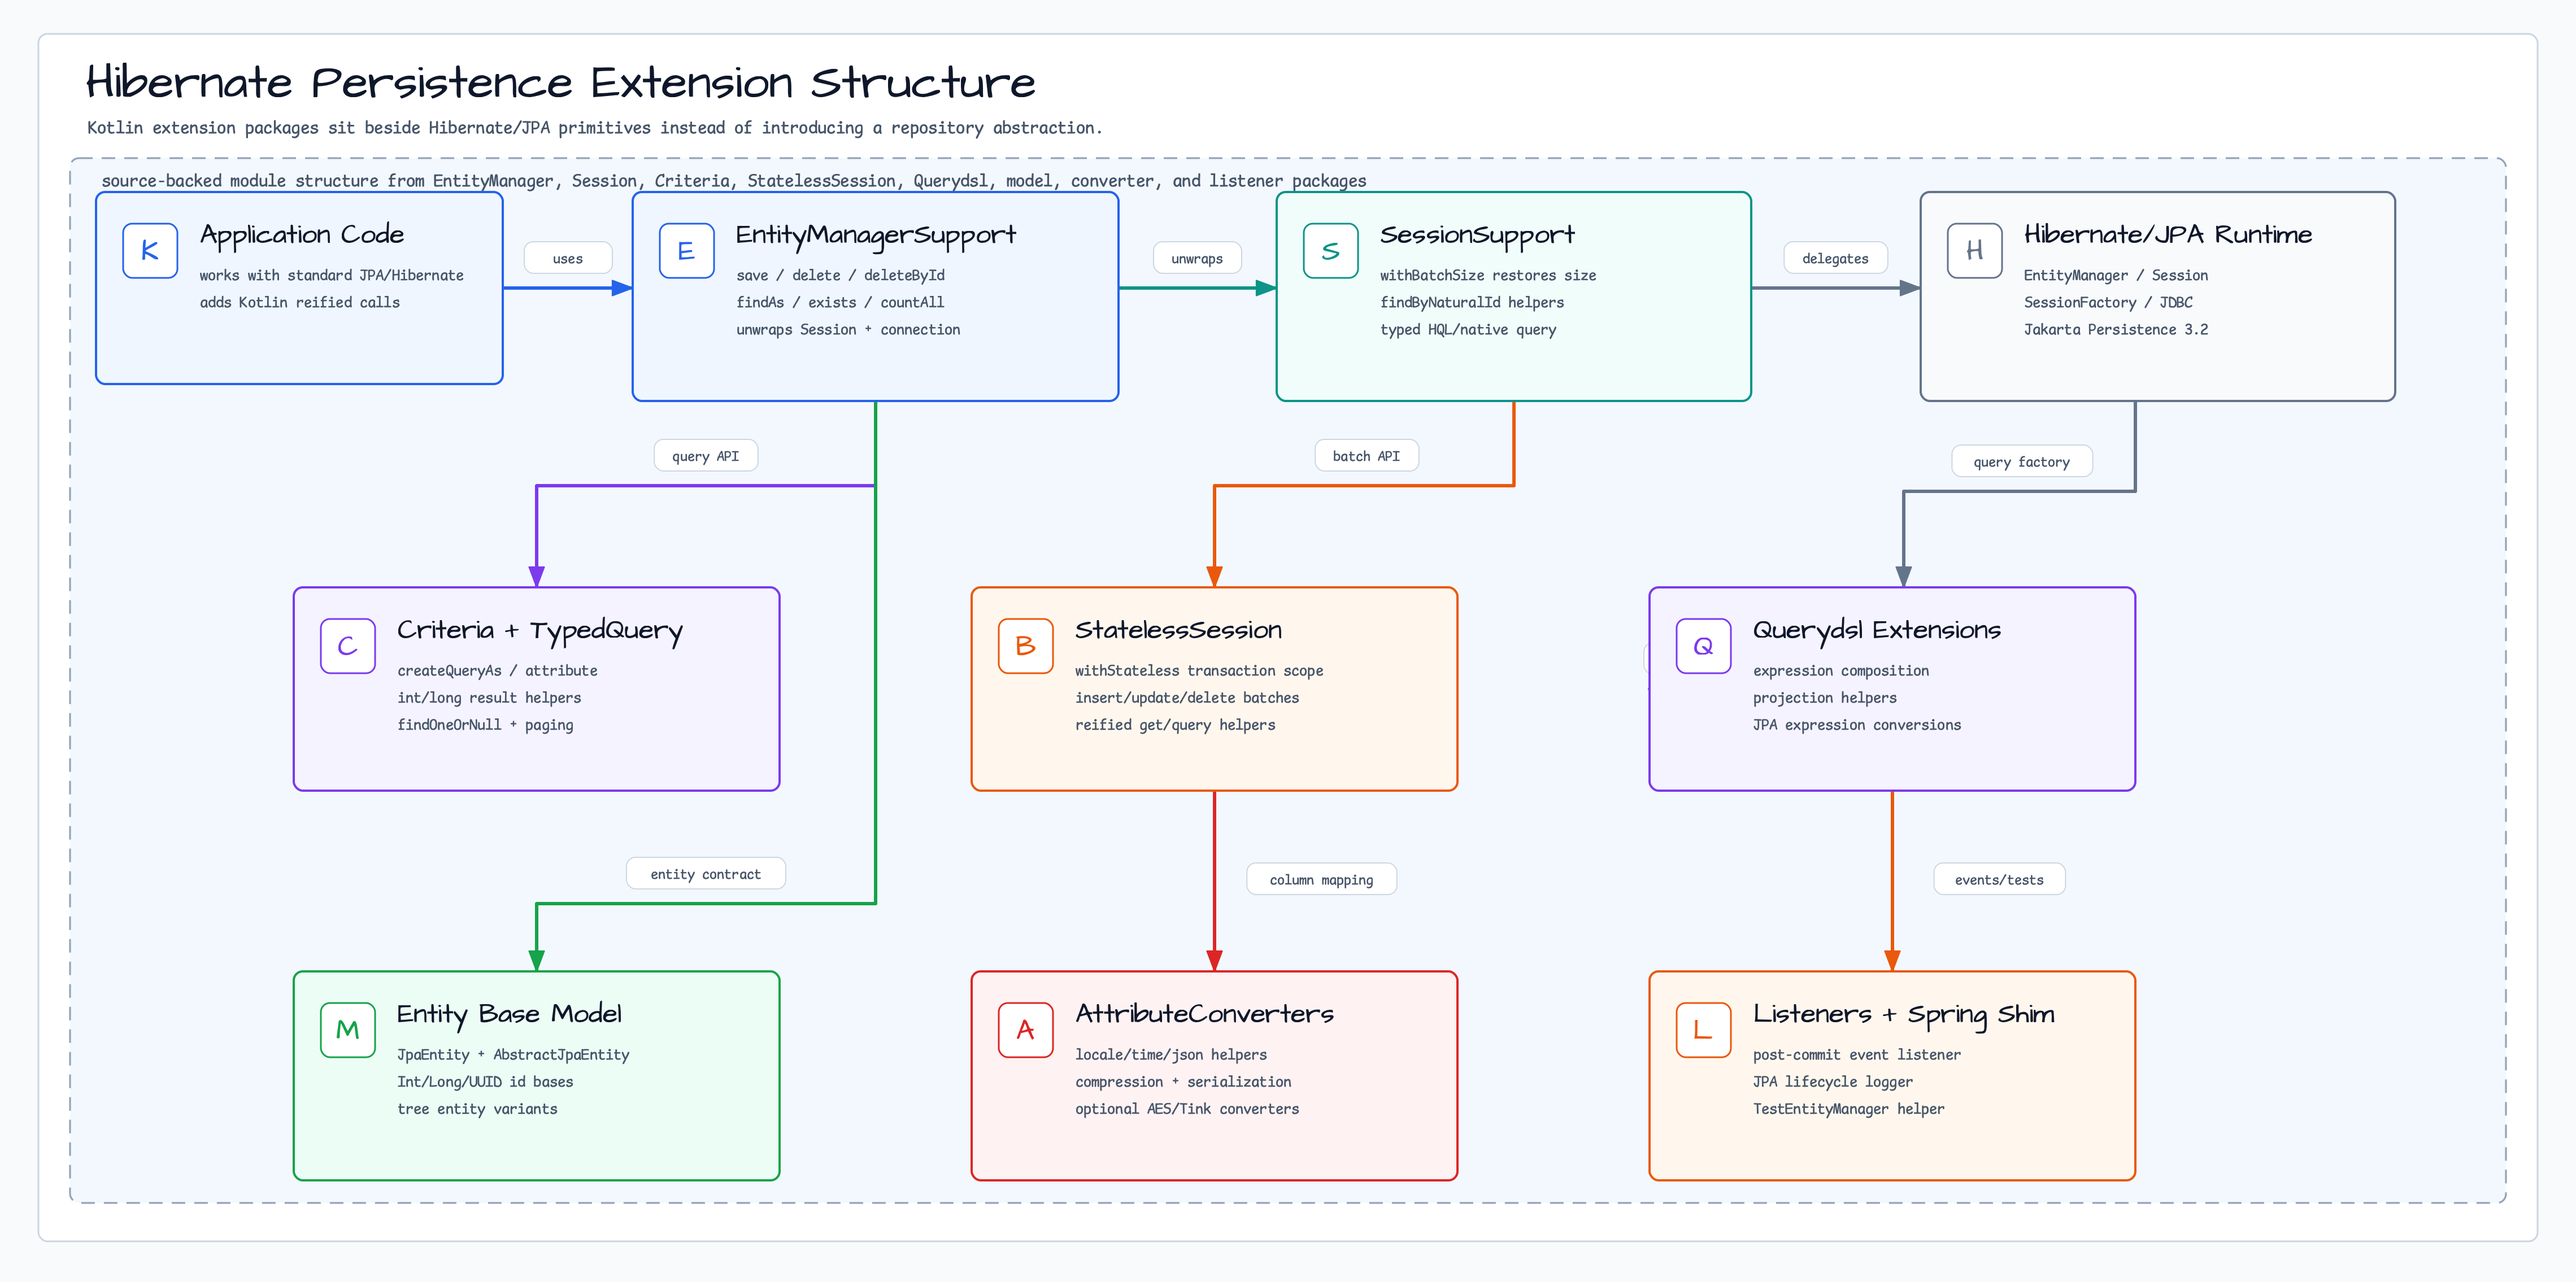
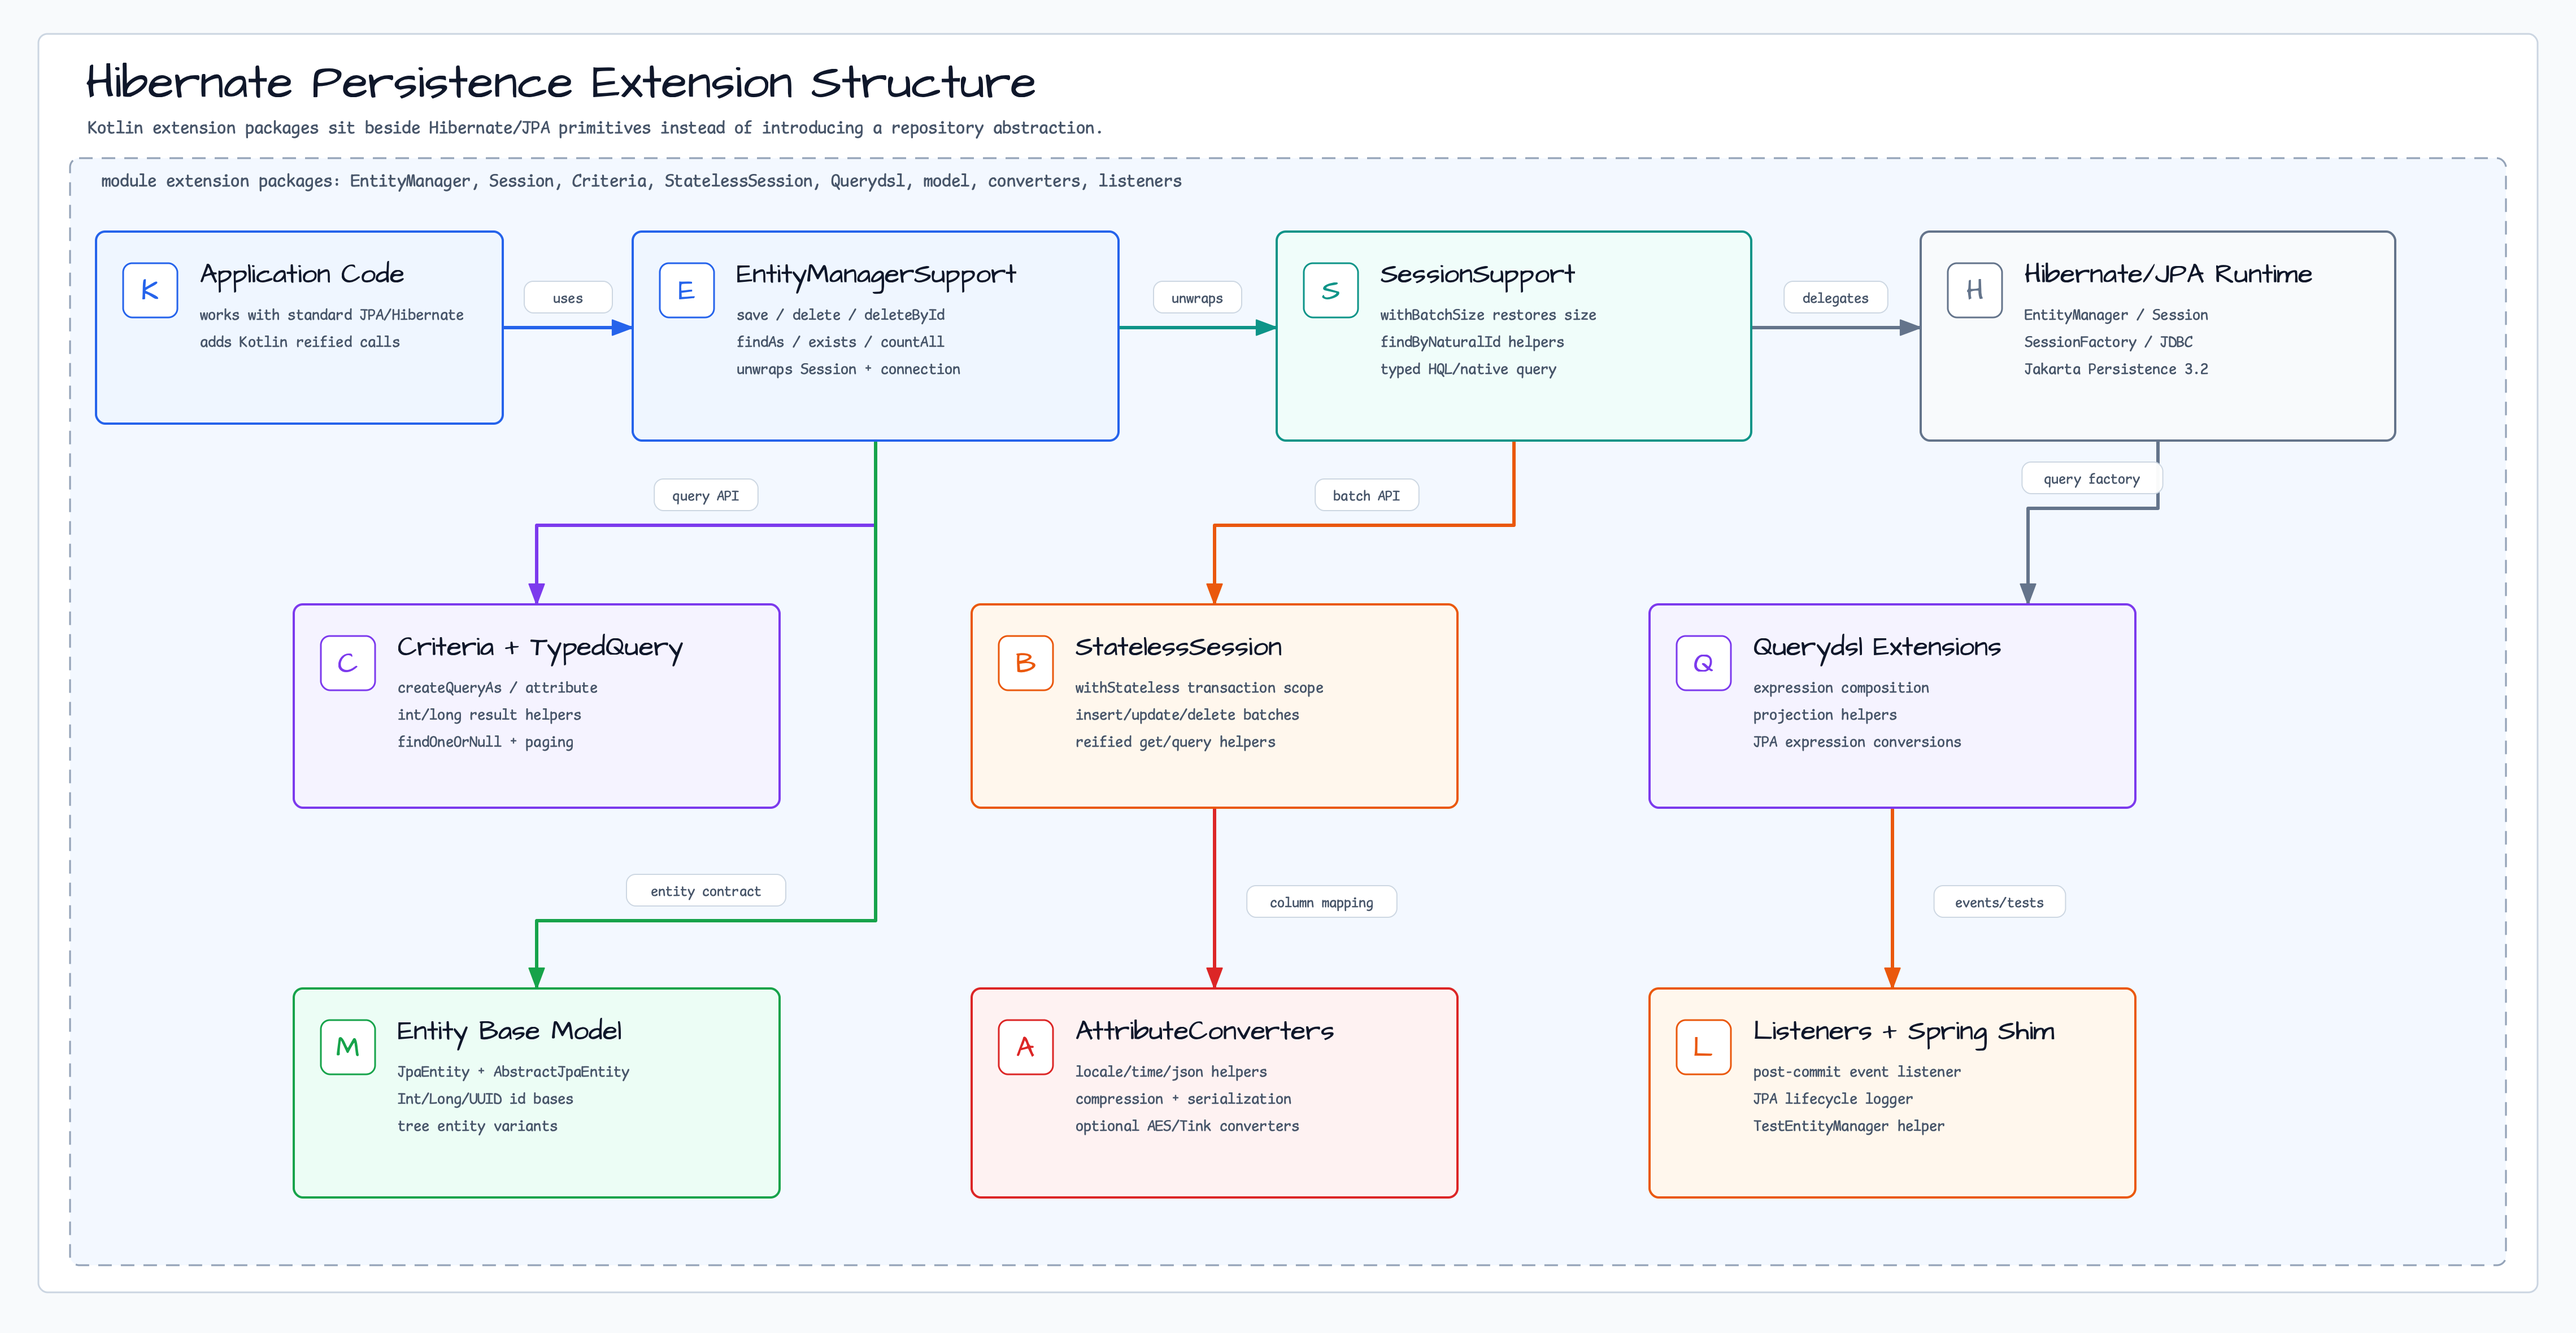
docs: clarify data hibernate diagrams
Constraint: README diagrams must use bluetape4k fonts, fireworks-style SVG/PNG rendering, and one-by-one visual inspection.

Rejected: generic regenerated layouts | they kept ambiguous Querydsl routing and excessive class-diagram whitespace.

Confidence: high

Scope-risk: narrow

Directive: Keep class diagrams free of icons and move cards before adding long routed connectors.

Tested: node scripts/generate-data-hibernate-diagram-01.mjs; node scripts/generate-data-hibernate-diagram-02.mjs; node scripts/generate-data-hibernate-diagram-03.mjs; XML/forbidden-text/readme-link checks; geometry margin/card checks; PNG visual inspection; git diff --check.

Not-tested: Gradle build; documentation-only asset update.

diff --git a/data/hibernate/README.ko.md b/data/hibernate/README.ko.md
@@ -336,7 +336,7 @@ val book1 = session.findBySimpleNaturalId<Book>("978-89-1234-567-8")
 val book2 = em.findBySimpleNaturalId<Book>("978-89-1234-567-8")
 ```
 
-### 6. Querydsl 확장
+### 8. Querydsl 확장
 
 ```kotlin
 import io.bluetape4k.hibernate.querydsl.core.*
@@ -355,7 +355,7 @@ val users = queryFactory
     .fetch()
 ```
 
-### 7. Converter 사용
+### 9. Converter 사용
 
 다양한 AttributeConverter를 제공합니다.
 
